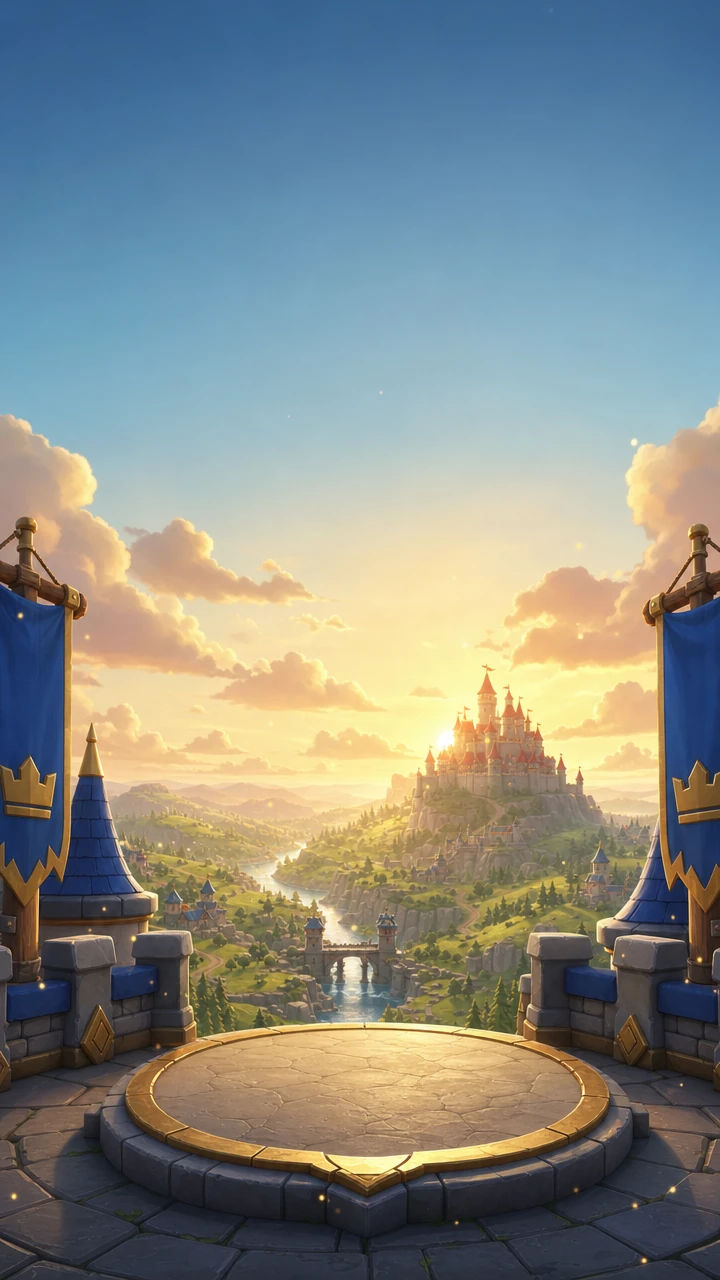
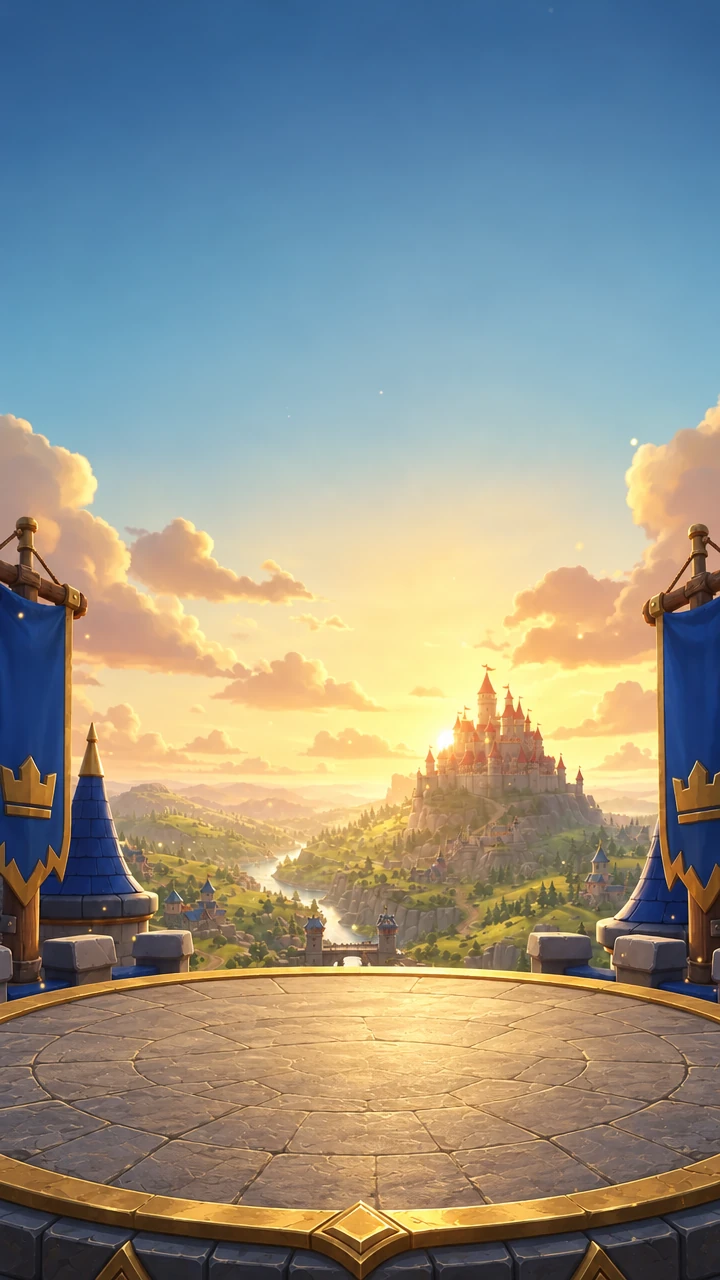
A new stage under Home's heroes: one big round floor across the width (0.31.115, code 201)
The outer heroes stood off the small painted dais and the camera looked down more steeply
than the painting, so they read as floating. The backdrop's bottom is redrawn as one wide
round stage (sky and castle kept); the camera comes down to 16 degrees and the rows sit on
the floor. home_heroes_test checks every hero's feet land on it; full suite passes (62).

Claude-Session: https://claude.ai/code/session_01E7g828t3p5DgnGnspyvbqX

diff --git a/godot/SIEGE_PROGRESS.md b/godot/SIEGE_PROGRESS.md
@@ -3319,3 +3319,17 @@ K2/K3 notes (0.17.0)
   ribbon check. reports/concepts/home_heroes_before_after.png.
 - Full suite: ALL SIEGE TESTS PASSED (62). No content pack change. 0.31.114, version code 200. APK 31432155 bytes,
   sha256 9d86bef25c87accf7e4808fb0873959549d6b265004b7396a3f2dea9912baa59.
+
+## 0.31.115 — a new stage under the heroes (Kevin: "Some of the characters are looking like they are floating now because the background art. Maybe needs a redesign")
+- 0.31.114's line-up stood the outer two beside the small painted dais (on the battlements' painted wall), and its
+  22-degree camera looked down on the heroes more steeply than the painting looks at its dais.
+- New Home backdrop (`assets/ui/v2/bg_home.webp`; source `art_sources/home_bg/bg_home_stage.png`): the old painting
+  edited (ElevenLabs gpt-image-2.5-sunburst, 4 variations, 1,731 credits; flow "Fatebound Home stage") so the bottom is
+  one big round flagstone stage with a gold rim across the whole width -- sky, castle, valley, banners and towers kept.
+  Its floor runs from its far rim (77% down the painting at the sides) to its near rim (94%), behind PLAY.
+- `roster.gd`: camera down to 16 degrees ((0, 5.17, 14.9)), the rows deeper (front z 2.3 / Knight 2.6, back -2.2 /
+  outer -1.9), the outer two at ±4.0 on the floor, 1.15x.
+- home_heroes_test: + every hero's feet land on the painted floor (at 420 x 933). ui pack rebuilt and uploaded
+  (ui-ab92acbcbfe5.pck). reports/concepts/home_stage_before_after.png.
+- Full suite: ALL SIEGE TESTS PASSED (62). 0.31.115, version code 201. APK 31432155 bytes, sha256
+  23ccddd3195480e9e5b9f2c75efe5dfba41e7617c98b4566e44a6e77c3b1f2dc.
